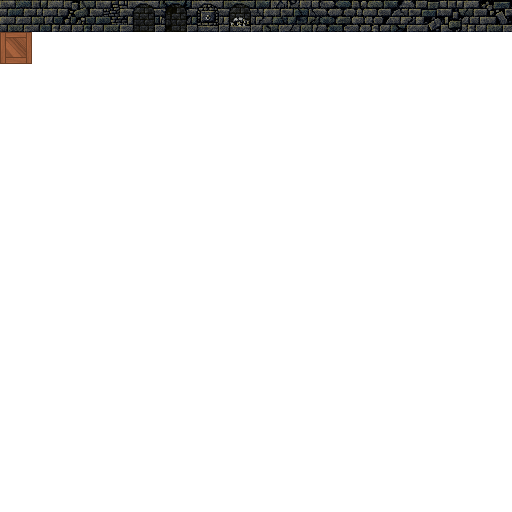
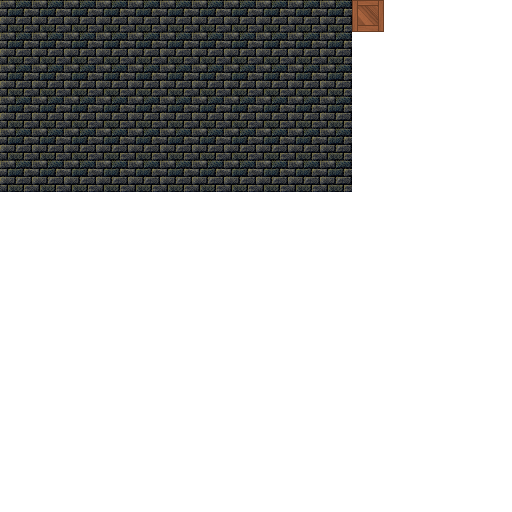
Put a floor in

Changed region(s): [[0.0, 0.0, 1.0, 0.375]]

diff --git a/mountain_king.py b/mountain_king.py
@@ -37,9 +37,9 @@ def init():
     pygame.init()
     screen = pygame.display.set_mode((w, h), pygame.OPENGL | pygame.DOUBLEBUF)
     pygame.display.set_caption("To the Beat of the Mountain King")
-    pygame.mouse.set_visible(False)
+    # pygame.mouse.set_visible(False)
     drawing.init(*globals.screen)
-    globals.cursor = drawing.cursors.Cursor()
+    # globals.cursor = drawing.cursors.Cursor()
 
     globals.text_manager = drawing.texture.TextManager()
 
@@ -70,7 +70,7 @@ def main_run():
         globals.screen_root.draw()
         globals.text_manager.draw()
         drawing.draw_no_texture(globals.ui_buffer)
-        globals.cursor.draw()
+        # globals.cursor.draw()
 
         drawing.end_frame()
 

diff --git a/game.py b/game.py
@@ -563,9 +563,9 @@ class GameView(ui.RootElement):
         )
 
         aspect = globals.screen_root.absolute.size.x / globals.screen_root.absolute.size.y
-        tile = 6
+        tile = 1
         tc = [[0, 0], [0, tile], [tile * aspect, tile], [tile * aspect, 0]]
-        self.wall_atlas.transform_coords("resource/background/catacombs_0.png", tc)
+        self.wall_atlas.transform_coords("resource/background/wall.png", tc)
 
         self.dungeon = ui.ImageBox(
             self,
